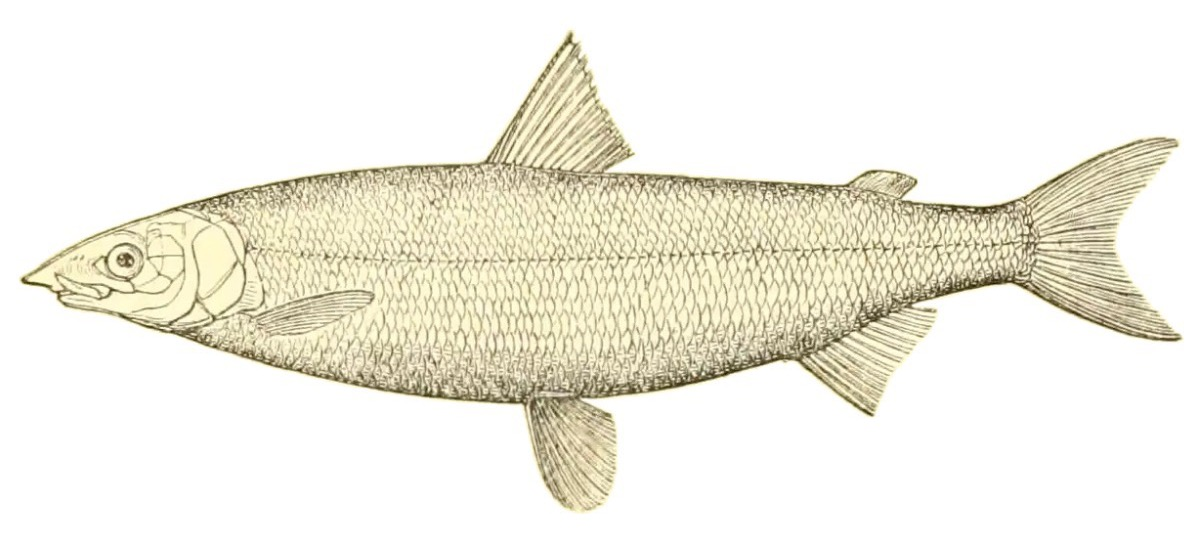
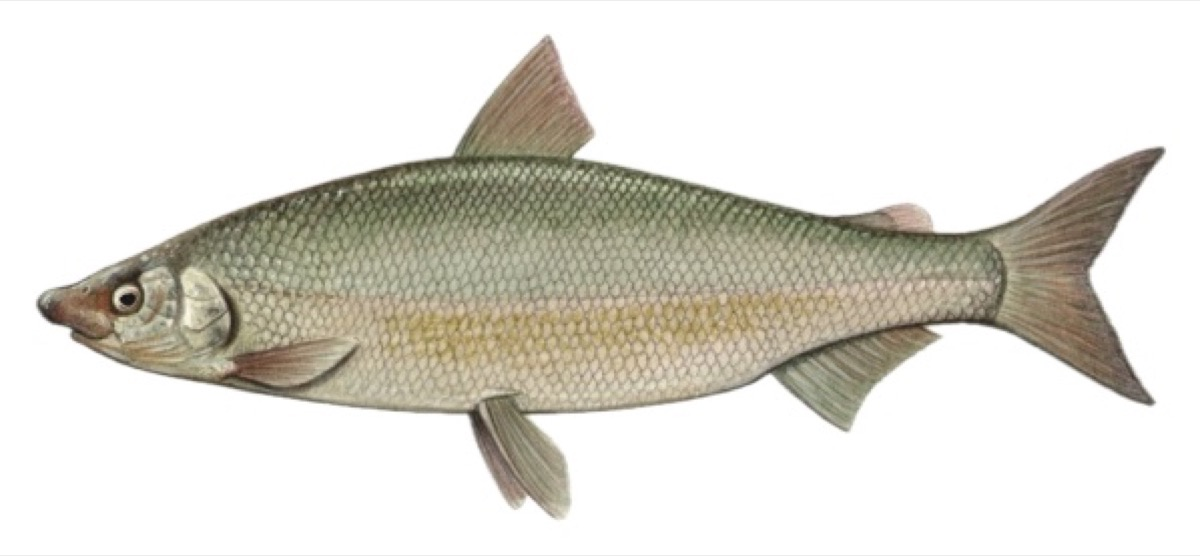
Neues Bild für den Nordseeschnäpel

diff --git a/data/group-salmoniden.js b/data/group-salmoniden.js
@@ -109,9 +109,9 @@ export const GROUP = [
     img: 'img/nordseeschnaepel.jpg',
     path: 'Fettflosse → keine Barteln → Rückenflosse nicht länger als der Kopf → Seitenlinie vollständig → Muster unauffällig (Renken)',
     features: [
-      { text: 'Fettflosse vorhanden', x: 73.3, y: 33.3, src: 'S25' },
-      { text: 'Flanke ohne auffälliges Muster', x: 50, y: 52, src: 'S25' },
-      { text: 'Schnauze auffallend nasenartig verlängert', x: 2.9, y: 51, src: 'WP' },
+      { text: 'Fettflosse vorhanden', x: 74.5, y: 38, src: 'S25' },
+      { text: 'Flanke ohne auffälliges Muster', x: 50, y: 54, src: 'S25' },
+      { text: 'Schnauze auffallend nasenartig verlängert', x: 4, y: 54, src: 'WP' },
     ],
     similar: [
       { name: 'Forellen und Lachs', diff: 'Deutliches Muster aus Punkten oder Flecken.' },

diff --git a/img/SOURCES-salmoniden.md b/img/SOURCES-salmoniden.md
@@ -10,7 +10,7 @@ Die Dateien stammen von Wikimedia Commons, anglerschmiede.de und weiteren Seiten
 | Regenbogenforelle | https://cdn.anglerschmiede.de/wp-content/uploads/Regenbogenforelle-2.jpg | Anglerschmiede (anglerschmiede.de/lexikon) | nicht angegeben, auf Wunsch des Benutzers verwendet | Hintergrund entfernt |
 | Bachsaibling | https://cdn.anglerschmiede.de/wp-content/uploads/Bachsaibling-1.jpg | Anglerschmiede (anglerschmiede.de/lexikon) | nicht angegeben, auf Wunsch des Benutzers verwendet | Hintergrund entfernt |
 | Äsche | https://upload.wikimedia.org/wikipedia/commons/9/96/Thymallus_thymallus_P%C3%A9nzes_p%C3%A9r.jpg | Zsoldos Márton | CC BY-SA 3.0 | keine |
-| Nordseeschnäpel | https://upload.wikimedia.org/wikipedia/commons/f/fa/Coregonus_oxyrhynchus.png | Ellicrum (nach Günther 1880) | CC BY-SA 4.0 | ersetzt (vorher Günther 1880 auf gelber Buchseite); gespiegelt, oben und unten Weißraum zugeschnitten |
+| Nordseeschnäpel | https://www.nationalpark-wattenmeer.de/wp-content/uploads/2021/01/schnaepel-1000x600-1.jpg (Seite: https://www.nationalpark-wattenmeer.de/wissensbeitrag/der-nordseeschnaepel/) | Nationalpark Wattenmeer | nicht angegeben, auf Wunsch des Benutzers verwendet | ersetzt; Hintergrund entfernt |
 | Hecht | https://upload.wikimedia.org/wikipedia/commons/c/c6/Esox_lucius2.jpg | Krüger (Bloch), Bibliothèque nationale de France | gemeinfrei | gespiegelt |
 | Aal | https://cdn.anglerschmiede.de/wp-content/uploads/Aal.jpg | Anglerschmiede (anglerschmiede.de/lexikon) | nicht angegeben, auf Wunsch des Benutzers verwendet | Hintergrund entfernt |
 | Bach-/Flussneunauge | https://upload.wikimedia.org/wikipedia/commons/e/e7/Lampetra_fluviatilis1.jpg | Hermann Schlegel, „De visschen“ | gemeinfrei | keine (schwarz-weiß, mit Mundscheibe als Nebenbild) |
